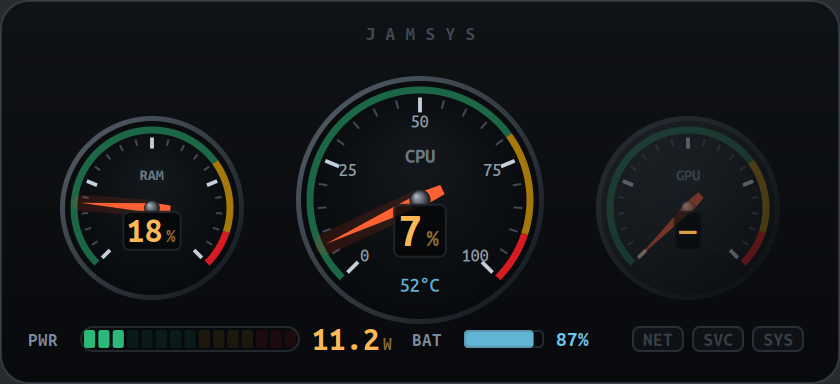
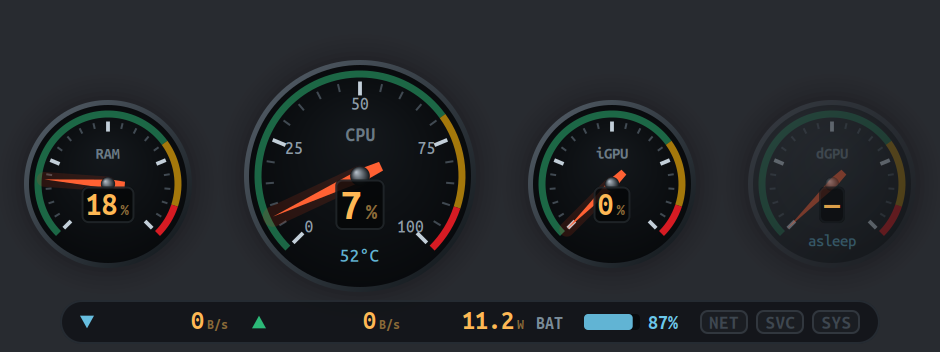
Show the gadget the way it actually ships: dials on the wallpaper, not in a box
The README's cluster screenshots were of the housing face. The gadget has not
shipped that face since 2026-09-10, when de521cf cut it out of its box: the
extension's `style` schema key defaults to 'cutout' and the standalone window
defaults to `bare`. So for five days the first two pictures on the front page
were of a face almost nobody sees, and a reader comparing the page to their own
screen was looking at a different gadget.

Regenerating them changed nothing, which is why this went unnoticed: the
committed PNGs were byte-identical to what render-cluster.js draws today. They
were faithful renders of the wrong function. The harness only ever called
drawCluster; drawClusterBare and drawUnavailable had no way to be seen at all,
and the state it wrote as 'crit' had to be renamed by hand to the 'critical'
the README asked for -- a manual step between the harness and the page, which
is where drift lives.

So render-cluster.js now renders both faces and the offline one, writes the
shipped face under the plain names the README uses, and needs no renaming. The
README gains the attention state (it only ever showed healthy and critical),
the housing as the documented alternative, and the face shown when the daemon
is not answering -- which says what to run, and is worth a picture precisely
because it is the one you see when you are already confused.

The guard is in gauges-test: the shipped defaults and the harness's names have
[…]

diff --git a/gnome-extension/tests/render-cluster.js b/gnome-extension/tests/render-cluster.js
@@ -6,10 +6,16 @@
  * This exists because the extension cannot be loaded without a session restart, and
  * a design nobody has looked at is not a design.
  *
+ * Both faces are rendered. The cut-out -- dials straight on the wallpaper -- is what
+ * ships: `style` defaults to 'cutout' in the schema and the standalone window defaults
+ * to `bare`. The housing is the option, so it is rendered under its own name. Getting
+ * that backwards is how the README came to show, for months, a face almost nobody saw.
+ *
  *   gjs -m gnome-extension/tests/render-cluster.js OUTDIR [--live] [--scale N]
  */
 import Gio from 'gi://Gio';
-import {drawCluster, CLUSTER_W, CLUSTER_H} from '../jamsys@jamsys.org/gauges.js';
+import {drawCluster, drawClusterBare, drawUnavailable,
+        CLUSTER_W, CLUSTER_H, BARE_W, BARE_H} from '../jamsys@jamsys.org/gauges.js';
 
 const Cairo = imports.cairo;
 const argv = ARGV ?? [];
@@ -18,20 +24,28 @@ const live = argv.includes('--live');
 const si = argv.indexOf('--scale');
 const scale = si >= 0 ? parseFloat(argv[si + 1]) : 2;   // 2 = retina, easier to review
 
-function render(name, state, opts = {}) {
-    const w = Math.round(CLUSTER_W * scale);
-    const h = Math.round(CLUSTER_H * scale);
+/* face: 'cutout' (the default gadget), 'housing' (the panelled option), or
+ * 'offline' (the face shown when the daemon is not answering). */
+function render(name, state, {face = 'cutout', ...opts} = {}) {
+    const cut = face === 'cutout';
+    const cw = cut ? BARE_W : CLUSTER_W;
+    const ch = cut ? BARE_H : CLUSTER_H;
+    const w = Math.round(cw * scale);
+    const h = Math.round(ch * scale);
     const surf = new Cairo.ImageSurface(Cairo.Format.ARGB32, w, h);
     const cr = new Cairo.Context(surf);
     // A mid-grey ground so panel transparency is visible in the review image the way
-    // it would be over a wallpaper.
+    // it would be over a wallpaper. The cut-out face needs it more than the housing:
+    // with no panel behind the dials, the ground *is* the background.
     cr.setSourceRGBA(0.16, 0.17, 0.19, 1); cr.paint();
     cr.scale(scale, scale);
-    drawCluster(cr, CLUSTER_W, CLUSTER_H, state, opts);
+    if (face === 'offline') drawUnavailable(cr, cw, ch);
+    else if (cut) drawClusterBare(cr, cw, ch, state, opts);
+    else drawCluster(cr, cw, ch, state, opts);
     cr.$dispose();
     const p = `${outDir}/cluster-${name}.png`;
     surf.writeToPNG(p);
-    print(`  ${name.padEnd(12)} -> ${p}`);
+    print(`  ${name.padEnd(16)} -> ${p}`);
 }
 
 const base = {
@@ -52,20 +66,30 @@ if (live) {
     const [json] = p.GetStateSync();
     render('live', JSON.parse(json));
 } else {
+    const load = {...base, cpu_pct: 94, cpu_temp_c: 88, mem_pct: 71,
+                  gpu_pct: 82, dgpu: 'active', power_w: 48.6, battery_pct: 41};
+    const warn = {...base, health: 'attention', cpu_pct: 6, power_w: 29.8,
+                  alert_title: 'Unusually high power draw while idle',
+                  alert_subsystem: 'Power', alert_severity: 1, open_alerts: 1};
+    const critical = {...base, health: 'critical', cpu_pct: 99, cpu_temp_c: 97,
+                      mem_pct: 94, power_w: 54, battery_pct: 8, net_ok: false,
+                      dgpu: 'active', gpu_pct: 61,
+                      alert_title: 'CPU is running critically hot',
+                      alert_subsystem: 'CPU', alert_severity: 3, open_alerts: 2};
+
+    // The shipped face, under the plain names -- these are the ones the README uses.
     render('idle', base);
-    render('load', {...base, cpu_pct: 94, cpu_temp_c: 88, mem_pct: 71,
-                    gpu_pct: 82, dgpu: 'active', power_w: 48.6, battery_pct: 41});
-    render('warn', {...base, health: 'attention', cpu_pct: 6, power_w: 29.8,
-                    alert_title: 'Unusually high power draw while idle',
-                    alert_subsystem: 'Power', alert_severity: 1, open_alerts: 1});
-    render('crit', {...base, health: 'critical', cpu_pct: 99, cpu_temp_c: 97,
-                    mem_pct: 94, power_w: 54, battery_pct: 8, net_ok: false,
-                    dgpu: 'active', gpu_pct: 61,
-                    alert_title: 'CPU is running critically hot',
-                    alert_subsystem: 'CPU', alert_severity: 3, open_alerts: 2});
+    render('load', load);
+    render('warn', warn);
+    render('critical', critical);
     render('ac', {...base, on_battery: false, battery_pct: 100, power_w: -38.2,
                   cpu_pct: 22, mem_pct: 31});
     render('desktop', {...base, has_battery: false, on_battery: false, power_w: 0,
                        cpu_pct: 14, mem_pct: 44, dgpu: 'active', gpu_pct: 3});
+
+    // The panelled alternative, and the face shown when nothing is answering.
+    render('housing-idle', base, {face: 'housing'});
+    render('housing-critical', critical, {face: 'housing'});
+    render('offline', base, {face: 'offline'});
 }
 print('done');

diff --git a/gnome-extension/tests/gauges-test.js b/gnome-extension/tests/gauges-test.js
@@ -7,6 +7,7 @@
  *
  *   gjs -m gnome-extension/tests/gauges-test.js
  */
+import GLib from 'gi://GLib';
 import {norm, readings, rate, A0, SWEEP, CLUSTER_W, CLUSTER_H,
         BARE_W, BARE_H, BARE_DIALS, bareHitRegions}
     from '../jamsys@jamsys.org/gauges.js';
@@ -143,6 +144,34 @@ eq(rate(1.5e9).u, 'GB/s', 'and gigabytes above that');
 ok(rate(NaN).n === '0' && rate(-5).n === '0',
    'nonsense reads as zero rather than NaN on the gadget');
 ok(rate(12345).n.length <= 3, 'never more than three digits, so the strip cannot grow');
+
+print('the documented face is the face that ships');
+/* The README's cluster screenshots showed the housing for months after the cut-out
+ * became the default, because nothing tied the two together. A reader comparing the
+ * page to their own screen saw a different gadget. If a default moves, this fails and
+ * the screenshots get regenerated with it:
+ *     gjs -m gnome-extension/tests/render-cluster.js docs/screenshots
+ */
+const readFile = path => {
+    const [got, bytes] = GLib.file_get_contents(path);
+    if (!got) throw new Error(`cannot read ${path}`);
+    return new TextDecoder().decode(bytes);
+};
+const here = GLib.path_get_dirname(import.meta.url.replace('file://', ''));
+const schema = readFile(`${here}/../jamsys@jamsys.org/schemas/org.gnome.shell.extensions.jamsys.gschema.xml`);
+const styleDefault = /<key name="style"[\s\S]*?<default>'([a-z]+)'<\/default>/.exec(schema);
+ok(styleDefault && styleDefault[1] === 'cutout',
+   `the Shell extension defaults to the cut-out face (got ${styleDefault && styleDefault[1]})`);
+
+const standalone = readFile(`${here}/../jamsys@jamsys.org/standalone.js`);
+ok(/bare:\s*saved\.bare\s*\?\?\s*true/.test(standalone),
+   'and so does the standalone window');
+
+const harness = readFile(`${here}/render-cluster.js`);
+ok(/render\('idle', base\);/.test(harness) && /face = 'cutout'/.test(harness),
+   "so render-cluster.js writes the cut-out under the README's plain names");
+for (const name of ['idle', 'warn', 'critical', 'offline', 'housing-idle'])
+    ok(harness.includes(`'${name}'`), `and still renders the ${name} face`);
 
 print(`\n${failures === 0 ? 'ALL PASS' : failures + ' FAILURE(S)'}`);
 imports.system.exit(failures === 0 ? 0 : 1);

diff --git a/README.md b/README.md
@@ -36,11 +36,27 @@ Never "anomaly detected".
 tachometer dials, a redline, machined bezels, a segmented power strip and dashboard
 telltales that stay dark until they have something to say.
 
-![Instrument cluster, idle](docs/screenshots/cluster-idle.png)
+![Instrument cluster, idle — dials cut out onto the wallpaper](docs/screenshots/cluster-idle.png)
 
-When something is wrong it says so, in the header and on the instruments:
+When something needs attention it says which subsystem, and what:
+
+![Instrument cluster with a power warning in the header](docs/screenshots/cluster-warn.png)
+
+And when something is wrong it says so in the header and on the instruments — the
+telltales light, the redline is crossed, the battery strip goes red:
 
 ![Instrument cluster, critical](docs/screenshots/cluster-critical.png)
+
+That is the **cut-out** face, which is what ships. There is a panelled **housing** face
+too, for anyone who would rather the instruments sat in a box than on the wallpaper —
+`style` in the extension's preferences, `jamsys-cluster --housing` for the window:
+
+![The same cluster in its housing](docs/screenshots/cluster-housing-idle.png)
+
+If the daemon is not running, the cluster says that instead of leaving three-minute-old
+numbers on screen looking live, and gives you the command that fixes it:
+
+![The cluster with no daemon: JamSys — waiting for monitoring](docs/screenshots/cluster-offline.png)
 
 It does not poll. The daemon pushes an update only when a displayed value has changed
 enough for a human to notice, so nothing repaints for sensor noise and nothing animates.
